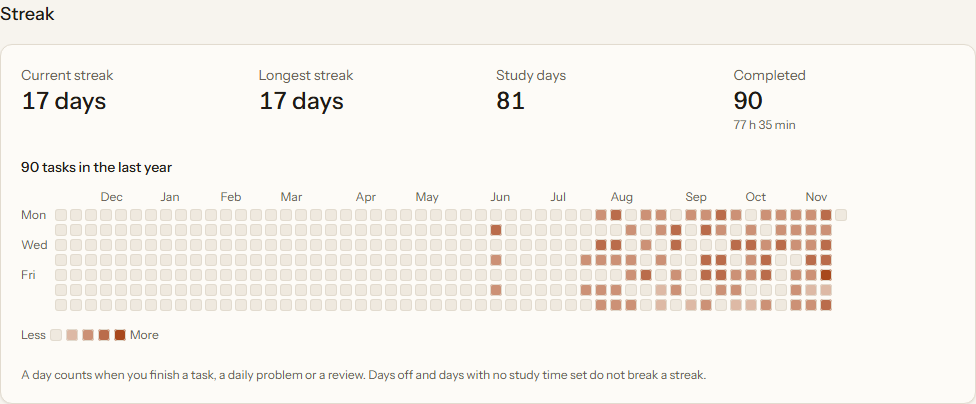
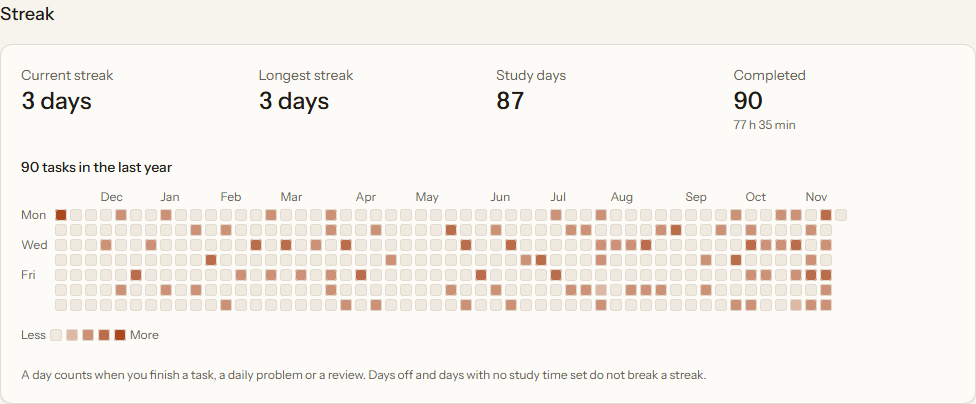
Heatmap screenshot backfill: stamp updatedAt and deviceId, assert 90 rows written, spread over 365 days; correct the toast comment

diff --git a/e2e/screenshots.spec.ts b/e2e/screenshots.spec.ts
@@ -52,30 +52,41 @@ async function openFirstPlan(page: Page) {
   await expect(page.getByRole('heading', { level: 2, name: 'Modules' })).toBeVisible()
 }
 
-/** Marks the first 90 tasks done on scattered days of the past year (raw IndexedDB), so the heatmap has a history. */
-async function backfillHistory(page: Page) {
-  await page.evaluate(
+/**
+ * Marks up to 90 open tasks done on scattered days of the past 365 (raw IndexedDB), so the heatmap has a history.
+ * Rows get a fresh updatedAt and this device's id (meta "deviceId"), as updateRecord writes them. Returns how many rows it wrote.
+ */
+async function backfillHistory(page: Page): Promise<{ wrote: number; open: number }> {
+  return page.evaluate(
     () =>
-      new Promise<void>((resolve, reject) => {
+      new Promise<{ wrote: number; open: number }>((resolve, reject) => {
         const open = indexedDB.open('kiln')
         open.onerror = () => reject(open.error)
         open.onsuccess = () => {
-          const tx = open.result.transaction('tasks', 'readwrite')
+          const tx = open.result.transaction(['meta', 'tasks'], 'readwrite')
           const store = tx.objectStore('tasks')
-          let n = 0
-          store.openCursor().onsuccess = (e) => {
-            const cursor = (e.target as IDBRequest<IDBCursorWithValue | null>).result
-            if (!cursor || n >= 90) return
-            const t = cursor.value
-            if (!t.deleted && t.status === 'open') {
-              // Deterministic spread: clusters of busy days with gaps, denser toward the present.
-              const daysAgo = Math.floor(((n * 37) % 100) ** 1.45 / 6.5) + (n % 9 === 0 ? 40 : 1)
-              cursor.update({ ...t, status: 'done', completedAt: Date.now() - daysAgo * 86_400_000 })
-              n++
+          let wrote = 0
+          let openTasks = 0
+          tx.objectStore('meta').get('deviceId').onsuccess = (m) => {
+            const deviceId = (m.target as IDBRequest<{ value: string } | undefined>).result?.value
+            if (!deviceId) return reject(new Error('no deviceId in meta'))
+            store.openCursor().onsuccess = (e) => {
+              const cursor = (e.target as IDBRequest<IDBCursorWithValue | null>).result
+              if (!cursor) return
+              const t = cursor.value
+              if (!t.deleted && t.status === 'open') {
+                openTasks++
+                if (wrote < 90) {
+                  // Deterministic spread over the year: clusters of busy days with gaps, denser toward the present.
+                  const daysAgo = Math.min(364, Math.floor(((wrote * 37) % 100) ** 1.45 / 2.2) + (wrote % 9 === 0 ? 40 : 1))
+                  cursor.update({ ...t, status: 'done', completedAt: Date.now() - daysAgo * 86_400_000, updatedAt: Math.max(Date.now(), t.updatedAt + 1), deviceId })
+                  wrote++
+                }
+              }
+              cursor.continue()
             }
-            cursor.continue()
           }
-          tx.oncomplete = () => resolve()
+          tx.oncomplete = () => resolve({ wrote, open: openTasks })
           tx.onerror = () => reject(tx.error)
         }
       }),
@@ -125,16 +136,19 @@ const scenes: Record<string, (page: Page) => Promise<{ full?: boolean; clip?: Lo
     await form.getByRole('button', { name: 'Save plan' }).click()
     await expect(page.getByRole('list', { name: 'Versions' }).getByRole('listitem')).toHaveCount(2)
     await page.getByRole('heading', { level: 2, name: 'History' }).scrollIntoViewIfNeeded()
-    // Dismiss the toast so it does not sit over the list (the page's fake clock never reaches its timeout).
+    // Dismiss the toast so it does not sit over the list: it carries a Reschedule action, so it never closes on its own.
     await page.getByRole('button', { name: 'Dismiss' }).click()
     await expect(page.getByText('Plan saved')).toBeHidden()
   },
   heatmap: async (page) => {
     await openSeeded(page, '/todo')
-    await backfillHistory(page)
+    const { wrote, open } = await backfillHistory(page)
+    expect(wrote).toBe(Math.min(90, open)) // every row it meant to write was written
+    expect(wrote).toBe(90) // the sample plans have far more open tasks than that
     await page.goto('/calendar')
     const streak = page.getByRole('region', { name: 'Streak' })
     await expect(streak.getByRole('group', { name: 'Study activity, last year' })).toBeVisible()
+    await expect(streak.getByText(`${wrote} tasks in the last year`)).toBeVisible()
     return { clip: streak }
   },
 }
